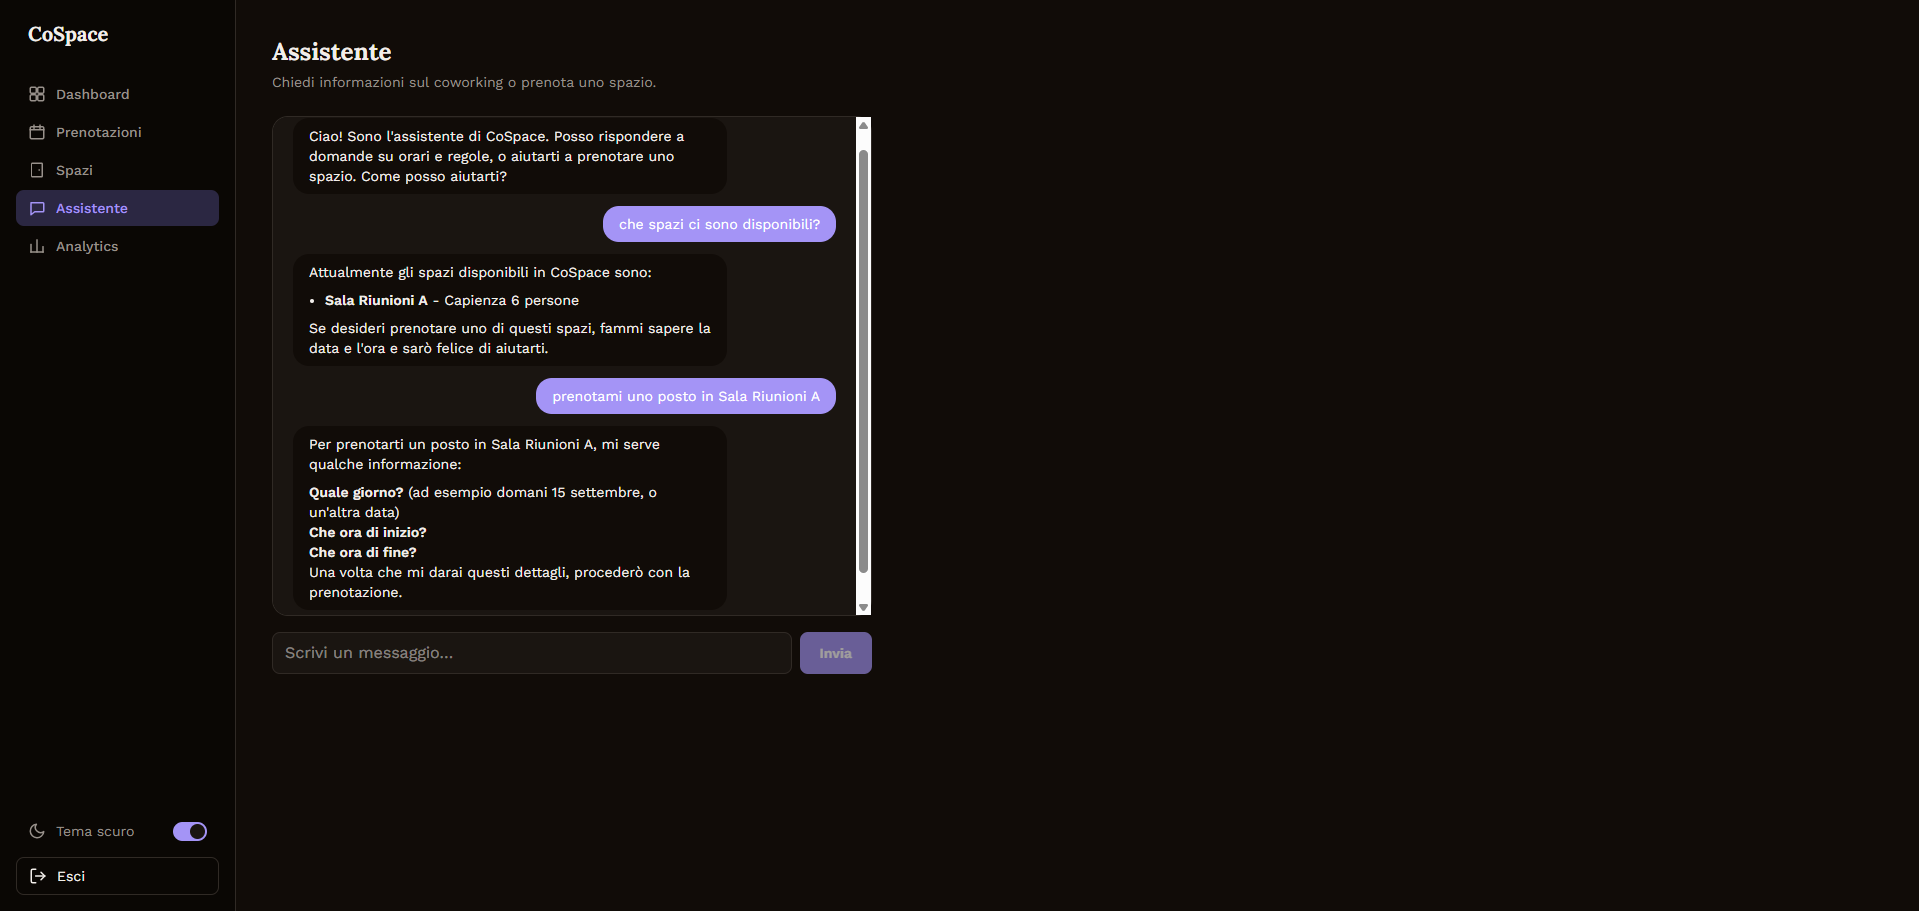
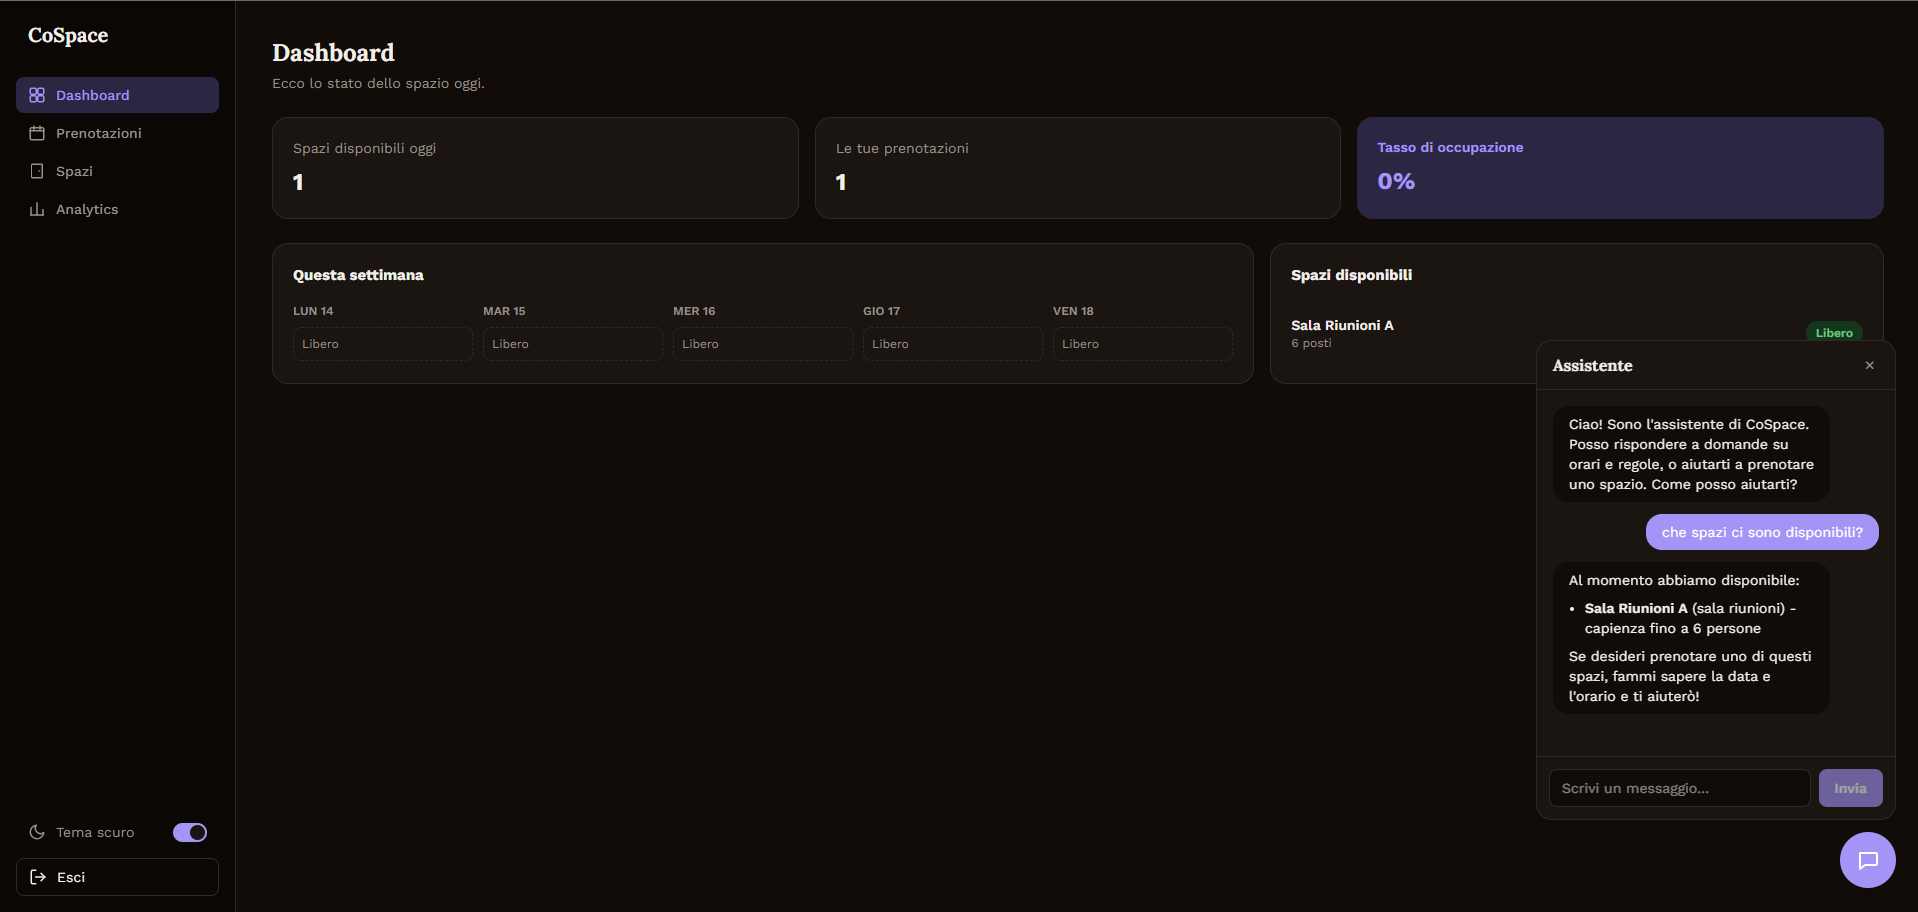
Update README assistant screenshots and wording for the new chat widget
Old screenshots and copy referenced the removed dedicated /assistant page; now show the floating widget in context over the dashboard.

diff --git a/README.md b/README.md
@@ -25,7 +25,7 @@ Gestionale per spazi di coworking con un assistente AI integrato — prenotazion
 
 ![Prenotazioni](docs/screenshots/Reservation-Page.png)
 
-**Assistente AI** — RAG (policy dello spazio) + tool-calling (prenotazione in linguaggio naturale)
+**Assistente AI** — widget flottante disponibile su ogni pagina, combina RAG (policy dello spazio) e tool-calling (prenotazione in linguaggio naturale)
 
 ![Assistente AI](docs/screenshots/AI-Assistant-Page.png)
 
@@ -54,7 +54,7 @@ CoSpace è un gestionale prenotazioni per spazi di coworking (sale riunioni, scr
 - Dashboard con stato dello spazio in tempo reale (calendario settimanale, disponibilità)
 - Dashboard analitica per lo staff (andamento prenotazioni, popolarità per spazio) con grafici Recharts
 - Gestione ruoli utenti (admin)
-- Assistente AI conversazionale (RAG + tool-calling)
+- Assistente AI come widget flottante, accessibile da ogni pagina (RAG + tool-calling)
 - Rate limiting per-utente sull'endpoint dell'assistente
 - Tema chiaro/scuro
 - Landing page pubblica, responsive
